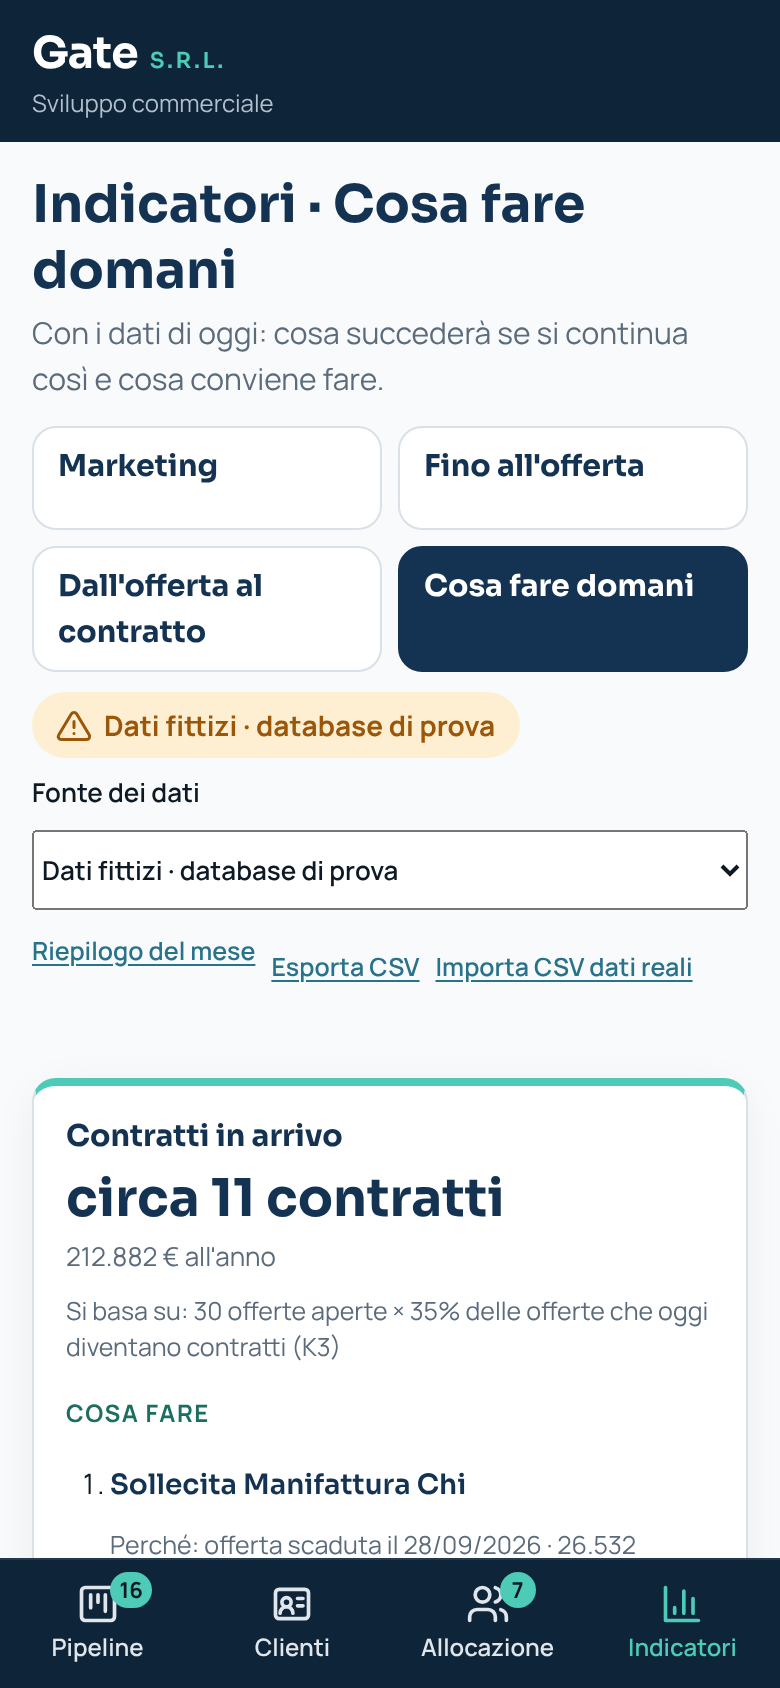
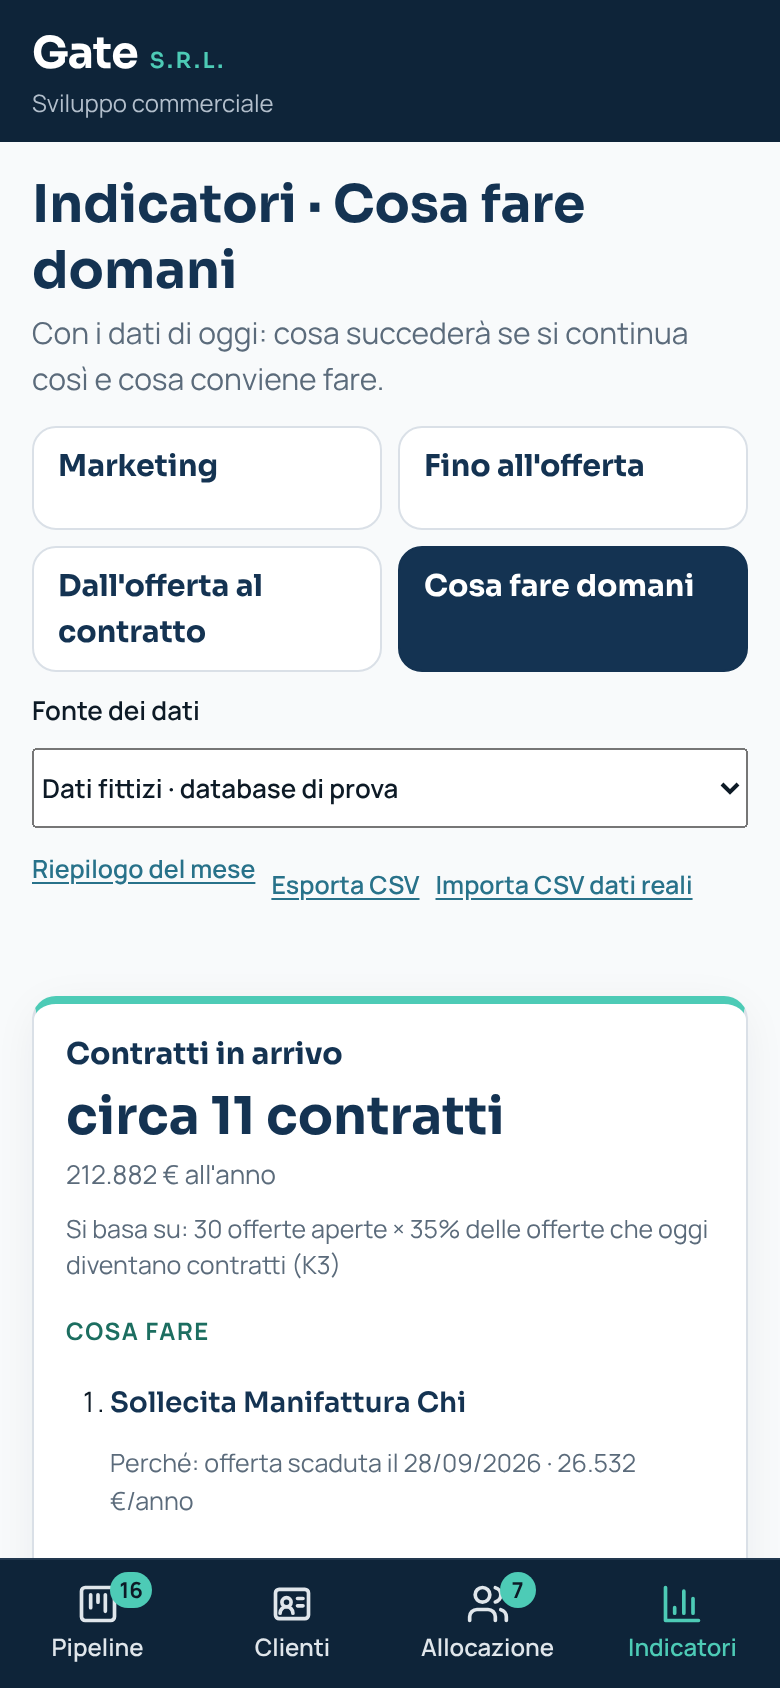
Tolti l'istruzione della Pipeline, la legenda dei colori del punteggio e l'etichetta «Dati fittizi» negli Indicatori
Resta il menu «Fonte dei dati»; con i dati reali di esempio resta l'avviso «Righe di esempio inventate». Prove 111/111.

Claude-Session: https://claude.ai/code/session_014H8vKMtZ3KmTT2Rh3Guds9

diff --git a/js/app.js b/js/app.js
@@ -51,7 +51,7 @@ function intestazione({ occhiello = "", titolo, istruzione, azione = "" }) {
       <div>
         ${occhiello ? `<p class="occhiello">${occhiello}</p>` : ""}
         <h1 tabindex="-1">${titolo}</h1>
-        <p class="istruzione">${istruzione}</p>
+        ${istruzione ? `<p class="istruzione">${istruzione}</p>` : ""}
       </div>
       ${azione}
     </header>`;
@@ -70,15 +70,6 @@ function rigaAvvisi() {
   return `<section class="riga-avvisi" aria-label="Avvisi">${icona("attenzione")}
     ${avvisi.map((x) => `<button class="chip chip-${x.tono} avviso-chip" type="button" data-azione="${x.azione}">${x.n !== null ? `<strong>${x.n}</strong> ` : ""}${esc(x.testo)}</button>`).join("")}
   </section>`;
-}
-
-// Legenda delle cinque fasce di colore del punteggio, con la soglia della trattativa buona
-function legendaFasce() {
-  const fasce = CONFIG.punteggio.fasce;
-  return `<p class="legenda-fasce">${fasce.slice().reverse().map((f, i, tutte) => {
-    const fino = i < tutte.length - 1 ? tutte[i + 1].da - 1 : 100;
-    return `<span class="badge badge-punteggio fascia-${f.nome}">${f.da}–${fino}</span> ${f.nome}`;
-  }).join(" ")} <span class="legenda-buona">· buona trattativa da ${CONFIG.punteggio.buona}</span></p>`;
 }
 
 // Tabella dei 6 criteri del punteggio, con i punti ottenuti
@@ -133,7 +124,7 @@ function disegnaPipeline() {
     <div class="pagina-pipeline">
     ${intestazione({
       titolo: "Opportunità commerciali",
-      istruzione: "Registra ogni passo con un clic e tieni sempre una prossima azione. Il punteggio, da 0 a 100, indica la coerenza con capacità e margini.",
+      istruzione: "",
       azione: `<button class="pulsante accento" type="button" data-azione="nuovo">${icona("piu")} Nuovo contatto</button>`,
     })}
 
@@ -146,7 +137,6 @@ function disegnaPipeline() {
         <strong>${daSeguire ? `<span class="chip chip-attenzione">${daSeguire}</span>` : "0"}</strong><small>ferme, senza prossima azione o da ricontattare</small></a>
     </section>
     ${rigaAvvisi()}
-    ${legendaFasce()}
 
     <div class="pannelli-pipeline">
       ${sezioneDaFare()}
@@ -663,7 +653,6 @@ function apriDettaglio(id) {
     ${o.note ? `<h3>Note sulla trattativa</h3><p class="nota-trattativa">${esc(o.note)}</p>` : ""}
     <h3>Punteggio di coerenza: ${p.totale} su 100 (${fasciaPunteggio(p.totale).nome})</h3>
     ${tabellaCriteri(p)}
-    ${legendaFasce()}
     <h3>Storico</h3>
     <ol class="storico">${passi}${o.perso ? `<li>Perso: ${formattaData(o.perso.data)} · ${esc(o.perso.motivo)}${o.perso.nota ? " · " + esc(o.perso.nota) : ""}</li>` : ""}</ol>
     ${o.motivazioneC ? `<p class="nota-c">Offerta inviata nonostante il punteggio C. Motivazione: ${esc(o.motivazioneC)}</p>` : ""}

diff --git a/css/stile.css b/css/stile.css
@@ -567,11 +567,6 @@ textarea {
   }
 }
 
-.legenda-buona {
-  font-weight: 700;
-  color: var(--foreground);
-}
-
 /* Punteggio di coerenza: colore pieno della fascia, cinque tinte ben distinte
    (rosso, arancione, giallo, verde chiaro, verde scuro); alto e altissimo = trattativa buona, da 70 */
 .badge-punteggio {
@@ -588,16 +583,6 @@ textarea {
 .fascia-medio { --fascia: #d9a800; --fascia-sfondo: #ffd54f; --fascia-testo: #3d2e00; }
 .fascia-basso { --fascia: #d67600; --fascia-sfondo: #ffa726; --fascia-testo: #2b1700; }
 .fascia-bassissimo { --fascia: #9f1f1f; --fascia-sfondo: #d32f2f; --fascia-testo: #ffffff; }
-
-.legenda-fasce {
-  display: flex;
-  flex-wrap: wrap;
-  align-items: center;
-  gap: 4px 8px;
-  margin: 8px 0 12px;
-  color: var(--muted-foreground);
-  font-size: 12px;
-}
 
 .conteggio {
   display: inline-block;
@@ -698,8 +683,7 @@ textarea {
 .pagina-pipeline > .riga-avvisi { order: 1; }   /* gli avvisi subito sotto il titolo */
 .pagina-pipeline > .pannelli-pipeline { order: 2; }
 .pagina-pipeline > .riepilogo { order: 3; }
-.pagina-pipeline > .legenda-fasce,
-.pagina-pipeline > .selettore-fasi { order: 4; }   /* la legenda dei colori sta sopra le schede */
+.pagina-pipeline > .selettore-fasi { order: 4; }
 .pagina-pipeline > .tabellone { order: 5; }
 
 @media (min-width: 900px) {
@@ -3468,24 +3452,6 @@ h1[tabindex="-1"]:focus {
   justify-content: space-between;
   gap: 8px 16px;
   margin-bottom: 12px;
-}
-
-.etichetta-fonte {
-  display: flex;
-  flex-wrap: wrap;
-  align-items: center;
-  gap: 6px;
-  padding: 6px 12px;
-  border-radius: 999px;
-  background: var(--attenzione-sfondo);
-  color: var(--attenzione);
-  font-size: 14px;
-  font-weight: 700;
-}
-
-.etichetta-fonte.reali {
-  background: var(--ok-sfondo);
-  color: var(--ok);
 }
 
 .scegli-fonte {

diff --git a/prove/e2e.js b/prove/e2e.js
@@ -185,10 +185,10 @@ const PROVE = {
   async fonti() {
     const { ctx, page, errori } = await apri();
     await page.goto(BASE + 'index.html#indicatori');
-    verifica('etichetta «Dati fittizi» visibile', /Dati fittizi/.test(await page.textContent('.etichetta-fonte')));
+    verifica('fonte iniziale: dati fittizi', (await page.$eval('#scelta-fonte', (s) => s.value)) === 'fittizi');
     await page.selectOption('#scelta-fonte', 'test');
     await page.waitForTimeout(300);
-    verifica('fonte test: etichetta dati reali con avviso di righe di esempio', /Dati reali/.test(await page.textContent('.etichetta-fonte')) && /esempio/.test(await page.textContent('.etichetta-fonte')));
+    verifica('fonte test: dati reali scelti, con l\'avviso di righe di esempio', (await page.$eval('#scelta-fonte', (s) => s.value)) === 'test' && /Righe di esempio/.test(await page.textContent('.barra-fonte')));
     await clic(page, '[data-azione=livello][data-id=offerta]');
     verifica('fonte test: K12 prima risposta ricalcolata sui dati reali (0,5 giorni)', /0,5 giorni/.test(await page.textContent('#kpi-K12')));
     verifica('K14, K16 e K17 non compaiono più', !(await page.$('#kpi-K14, #kpi-K16, #kpi-K17')));

diff --git a/js/indicatori.js b/js/indicatori.js
@@ -137,8 +137,7 @@ function barraIndicatori(scelta, reali) {
           <strong>${l.nome}</strong><span>${l.chi}</span></button>`).join("")}
     </nav>
     <div class="barra-fonte">
-      <p class="etichetta-fonte ${scelta.fonte === "fittizi" ? "" : "reali"}" role="status">${icona("attenzione")} ${esc(nomeFonte(scelta.fonte))}
-        ${r && r.esempio ? '<span class="chip chip-critico">Righe di esempio inventate, non dati di Gate</span>' : ""}</p>
+      ${r && r.esempio ? '<p class="chip chip-critico" role="status">Righe di esempio inventate, non dati di Gate</p>' : ""}
       <div class="azioni-fonte">
         ${fonti.length > 1 ? `<label class="scegli-fonte">Fonte dei dati
           <select id="scelta-fonte">${fonti.map((f) => `<option value="${esc(f)}" ${f === scelta.fonte ? "selected" : ""}>${esc(nomeFonte(f))}</option>`).join("")}</select>

diff --git a/CLAUDE.md b/CLAUDE.md
@@ -9,7 +9,7 @@ Prototipo web per l'Open Challenge by Enterprise 2026 (Digital Transformation, L
 - Non affollare il prototipo (richiesta del 20/10, vale per tutto): ogni schermata mostra solo ciò che serve per decidere; i dettagli tecnici (formule SQL, APQC, date secondarie) stanno in riquadri richiudibili; niente doppioni tra pannelli; una funzione nuova si aggiunge togliendo o raccogliendo qualcosa, non accumulando.
 - Palette e font del sito gatesrl.it (variabili in cima a css/stile.css; Sora per i titoli, Manrope per il testo). Logo solo testuale finché Gate non autorizza quello vero.
 - Dati fittizi, dichiarati nell'interfaccia. Non inventare dati su Gate. Ipotesi dell'app in js/config.js; dati di esempio e dizionari condivisi (canali, settori, servizi, comuni, fasi, pesi del punteggio) in generatore/parametri.py, da cui nascono data/gate.db, js/dizionari.js e js/dati-db.js: app e SQL lavorano sugli stessi dati (database unificato, decisione del 20/10).
-- Il riferimento al progetto universitario va solo nel piè di pagina. Nessun richiamo grafico al "prototipo" nell'interfaccia (decisione del 21/10): i dati fittizi si dichiarano solo nel piè di pagina e nella fonte degli Indicatori.
+- Il riferimento al progetto universitario va solo nel piè di pagina. Nessun richiamo grafico al "prototipo" nell'interfaccia (decisione del 21/10): i dati fittizi si dichiarano solo nel piè di pagina e nel menu «Fonte dei dati» degli Indicatori (niente etichette, legende o istruzione in Pipeline: decisione del 21/10).
 - Mai alert(), confirm() o prompt(): il prototipo è pubblicato anche in un visualizzatore che li blocca. Le conferme si fanno con finestre o messaggi nella pagina.
 - Commenti essenziali in italiano, una riga per funzione: il team deve poter spiegare il codice.
 - Niente etichette delle quattro domande ("Cosa è successo?" ecc.: decisione del 21/10, i dati si spiegano da soli). La sezione «Cosa fare domani» degli Indicatori ragiona in avanti con i dati di oggi: quattro previsioni (contratti in arrivo, trattative a rischio, capacità delle squadre, nuovi contatti), ognuna con la base del calcolo e le azioni che ne seguono (js/analisi.js), regole leggibili con il loro "perché", soglie in config.js.

diff --git a/README.md b/README.md
@@ -70,7 +70,7 @@ L'ultima sezione degli Indicatori ragiona in avanti con i dati di oggi. Quattro 
 
 Sotto restano K6, K5 e K11. Le previsioni proiettano i tassi di oggi; le azioni sono regole leggibili in `js/analisi.js`, con le soglie in `js/config.js`. Nelle altre sezioni non ci sono etichette («Cosa è successo?» ecc.): i dati si spiegano da soli.
 
-Il **punteggio di coerenza** (0–100) ha il colore pieno della sua fascia: bassissimo (0–29, rosso), basso (30–49, arancione), medio (50–69, giallo), alto (70–84, verde chiaro), altissimo (85–100, verde scuro). Una **trattativa buona** ha punteggio da **70** in su (decisione del 21/10): è la base del K11 (quota di trattative buone) e delle trattative da riprendere in «Cosa fare domani». La soglia 70 è in `generatore/parametri.py` (`SOGLIA_BUONA`), uguale per app e SQL; le fasce in `js/config.js` (`punteggio.fasce`). La legenda dei colori sta sopra le schede della Pipeline.
+Il **punteggio di coerenza** (0–100) ha il colore pieno della sua fascia: bassissimo (0–29, rosso), basso (30–49, arancione), medio (50–69, giallo), alto (70–84, verde chiaro), altissimo (85–100, verde scuro). Una **trattativa buona** ha punteggio da **70** in su (decisione del 21/10): è la base del K11 (quota di trattative buone) e delle trattative da riprendere in «Cosa fare domani». La soglia 70 è in `generatore/parametri.py` (`SOGLIA_BUONA`), uguale per app e SQL; le fasce in `js/config.js` (`punteggio.fasce`).
 
 ## Collegamento con la deliverable del corso
 
